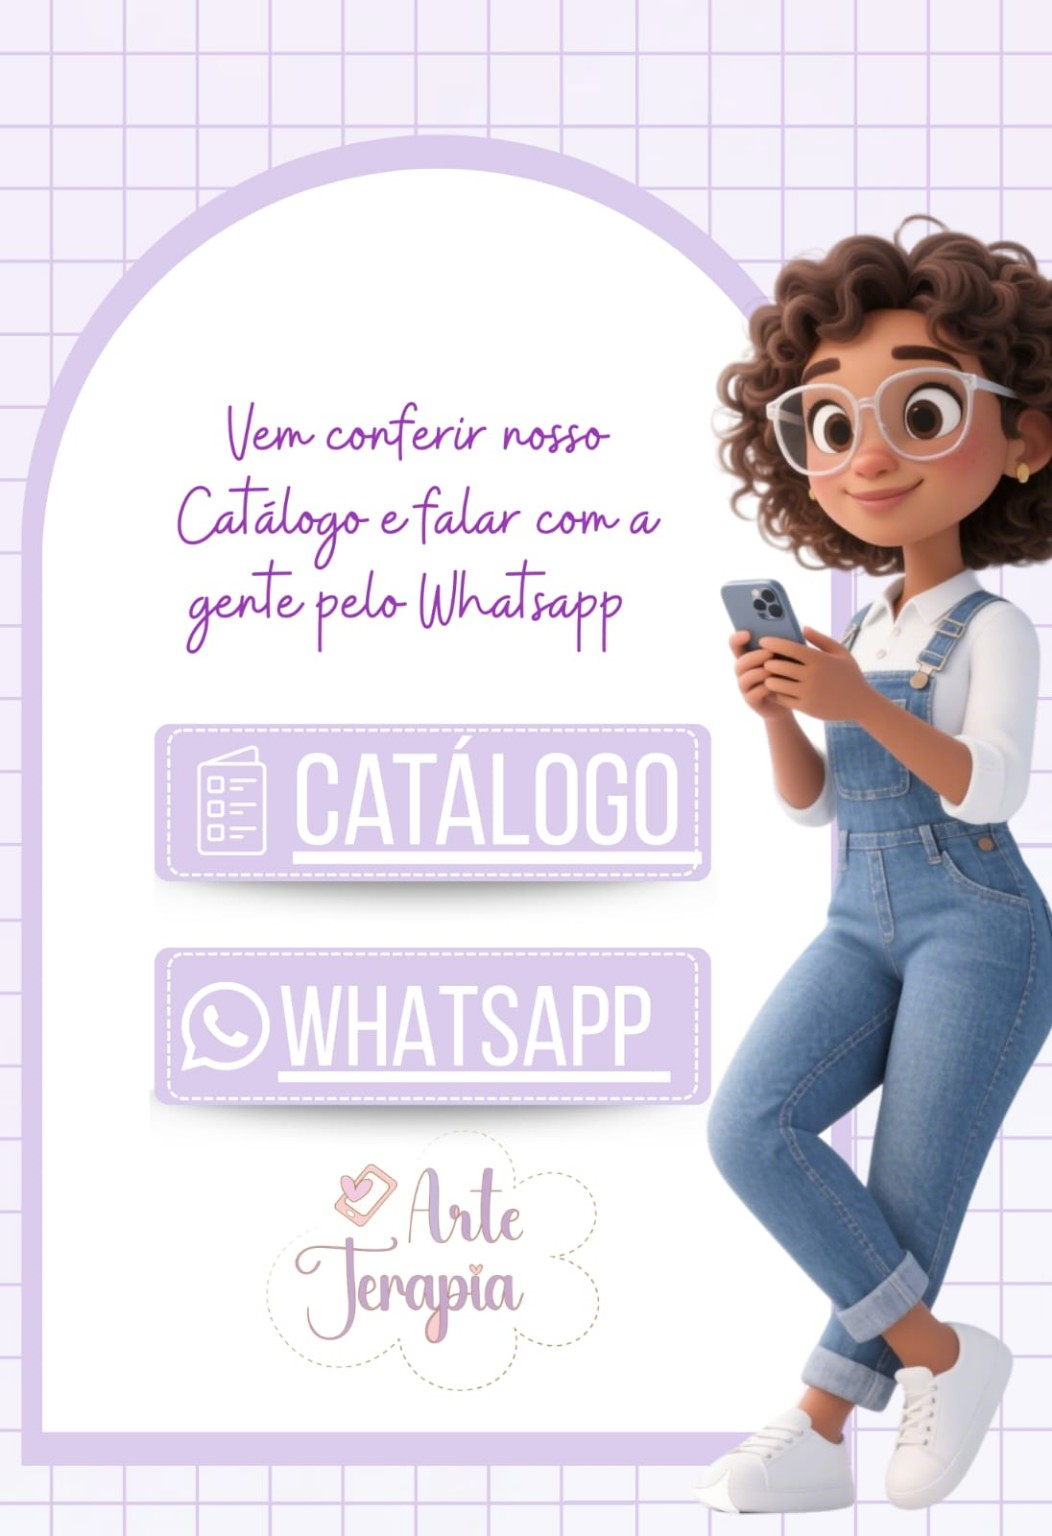
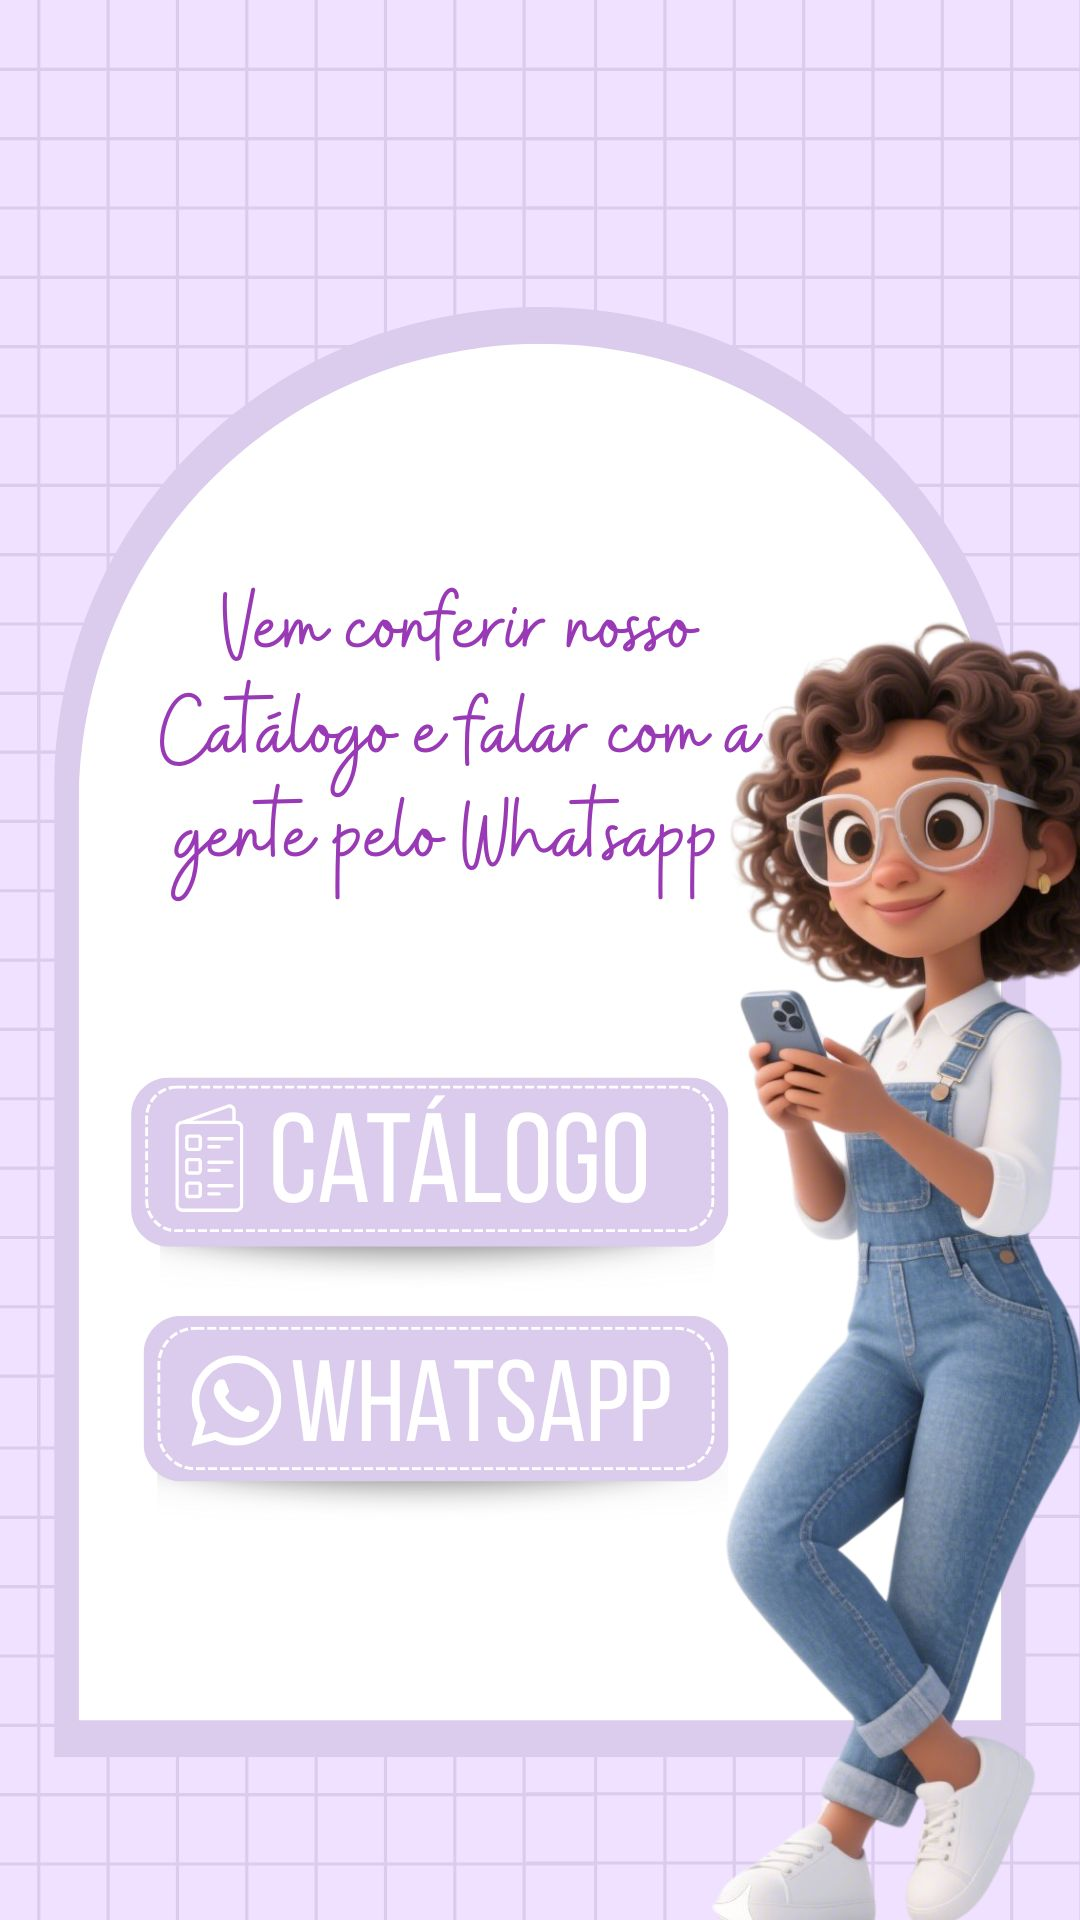
Add files via upload

diff --git a/index.html b/index.html
@@ -17,7 +17,8 @@
     }
     .container {
       position: relative;
-      width: 390px;
+      width: 100%;
+      max-width: 1080px;
     }
     .container img {
       width: 100%;
@@ -33,10 +34,10 @@
       left: 10%;
     }
     .catalogo {
-      top: 52.5%;
+      top: 58%;
     }
     .whatsapp {
-      top: 64.5%;
+      top: 70%;
     }
   </style>
 </head>
@@ -44,7 +45,7 @@
 
   <div class="container">
     <img src="arte-terapia.jpg" alt="Arte Terapia">
-    
+
     <a href="https://drive.google.com/file/d/1pNxuMUgR82oGcCRIdIcdxfYtrSIW1p68/view?usp=drivesdk" 
        target="_blank" class="button catalogo" title="Ver Catálogo"></a>
 
